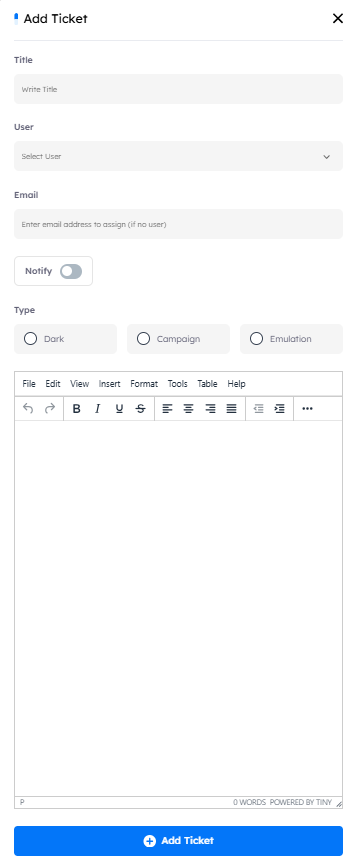
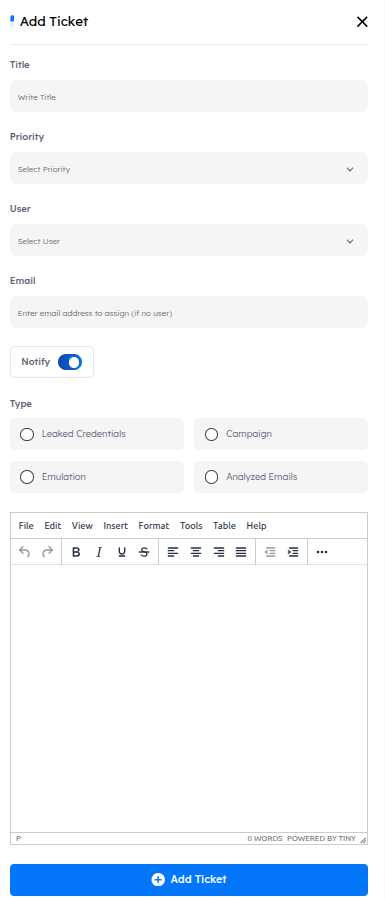
fix issues

diff --git a/modules/utilities/target.md b/modules/utilities/target.md
@@ -12,7 +12,7 @@ Upon accessing the `Target tab`, users encounter key indicators at the top of th
 
 ## Target Features
 
-- ### Target Details and outer metadata
+- ### Target Details and Additional Metadata
 
     - A comprehensive information bar above the targets provides essential details such as the target name, UUID, title, department, mail, phone, location, manager, company, tags, and actions for further management.
 
@@ -42,7 +42,7 @@ Upon accessing the `Target tab`, users encounter key indicators at the top of th
 
 - ### Filtering Options
 
-    - Next to the `Search` button, the `Filter` button allows you to search based on the target’s `name`, `title`, `mail`, `tags`, `department`, or `company`.
+    - Next to the `Search` button, the `Filter` button allows you to search based on the target’s `name`, `title`, `mail`, `tags`, `department` or `company`.
 
 - ### Export Data
 

diff --git a/modules/platform/files.md b/modules/platform/files.md
@@ -13,4 +13,8 @@ Upon accessing the `files tab`, users encounter key indicators at the top of the
 
     - Users can upload assets to dPhish’s file management system, allowing them to host files for use in awareness or phishing campaigns. These files can also be used for external purposes, providing flexibility in how they are utilized across different initiatives.
     
-![Platform-Phish files upload new file!](../../assets/platform/files/upload_new_file.png "Platform-Phish files upload new file")
+![Platform-Phish files upload new button!](../../assets/platform/files/upload_new_file.png "Platform-Phish files upload new button")
+
+---
+
+![Platform-Phish files upload new file!](../../assets/platform/files/upload_popup.png "Platform-Phish files upload new file")

diff --git a/modules/platform/logs.md b/modules/platform/logs.md
@@ -13,8 +13,8 @@ The interface includes pagination controls, allowing users to set the number of 
 
 - ### Search Functionality
 
-    - Located at the top right corner, the search button allows you to find the logs by its `path`, or `method` used quickly.
+    - Located at the top right corner, the search button allows you to find the logs by its `path` or `method` used quickly.
 
 - ### Filtering Options
 
-    - Next to the `Search` button, the `Filter` button allows you to search based on the log’s `method`, or `User`
+    - Next to the `Search` button, the `Filter` button allows you to search based on the log’s `method` or `User`

diff --git a/modules/utilities/templates.md b/modules/utilities/templates.md
@@ -41,6 +41,8 @@ Upon accessing the `Templates tab`, users encounter key indicators at the top of
     - **How to**: Click on the `New Template` button. An interface will appear containing a text editor and a development environment, allowing you to create and design templates.
 
     ![utilities-Phish template new button!](../../assets/utilities/templates/new_template_button.png "utilities-Phish template new button")
+    
+    ---
 
     ![utilities-Phish template add new!](../../assets/utilities/templates/add_template.png "utilities-Phish template add new")
 

diff --git a/modules/platform/tickets.md b/modules/platform/tickets.md
@@ -33,6 +33,7 @@ dPhish provides a comprehensive ticketing system to manage all services it cover
     3. **Email**: An alternative email address if the assigned person lacks access to the dPhish system.
     4. **Type**: The type of ticket being raised (e.g., Dark/Detect, Campaign, Emulation).
     5. **Description**: Additional information or context related to the ticket.
+    6. **Priority**: Select priority of the ticket (e.g, `low`, `medium`, `high`).
 
 ---
 

diff --git a/modules/platform/users.md b/modules/platform/users.md
@@ -55,9 +55,6 @@
 
 ![Platform-Phish user change password button!](../../assets/platform/users/change_password_button.png "Platform-Phish user change password button")
 
-
-![Platform-Phish user change password requirements!](../../assets/platform/users/change_password_button.png "Platform-Phish user change password requirements")
-
 ---
 
 - ### Edit User

diff --git a/modules/platform/roles.md b/modules/platform/roles.md
@@ -61,7 +61,7 @@ The assigned permissions determine what actions a user can perform in the system
 
 ## Modules and Required Permissions
 
-### Dashboaard
+### Dashboard
 The Dashboard module requires permissions from:
 - **Platform**
 - **Riskscore**

diff --git a/modules/platform/email_templates.md b/modules/platform/email_templates.md
@@ -25,8 +25,8 @@
     3. **Subject**
     4. **Tags**
     5. **Actions**
-        - View
-        - Edit
+        - `View`: View email template information.
+        - `Edit`: Edit email template information.
 
 ### Email Templates Features
 
